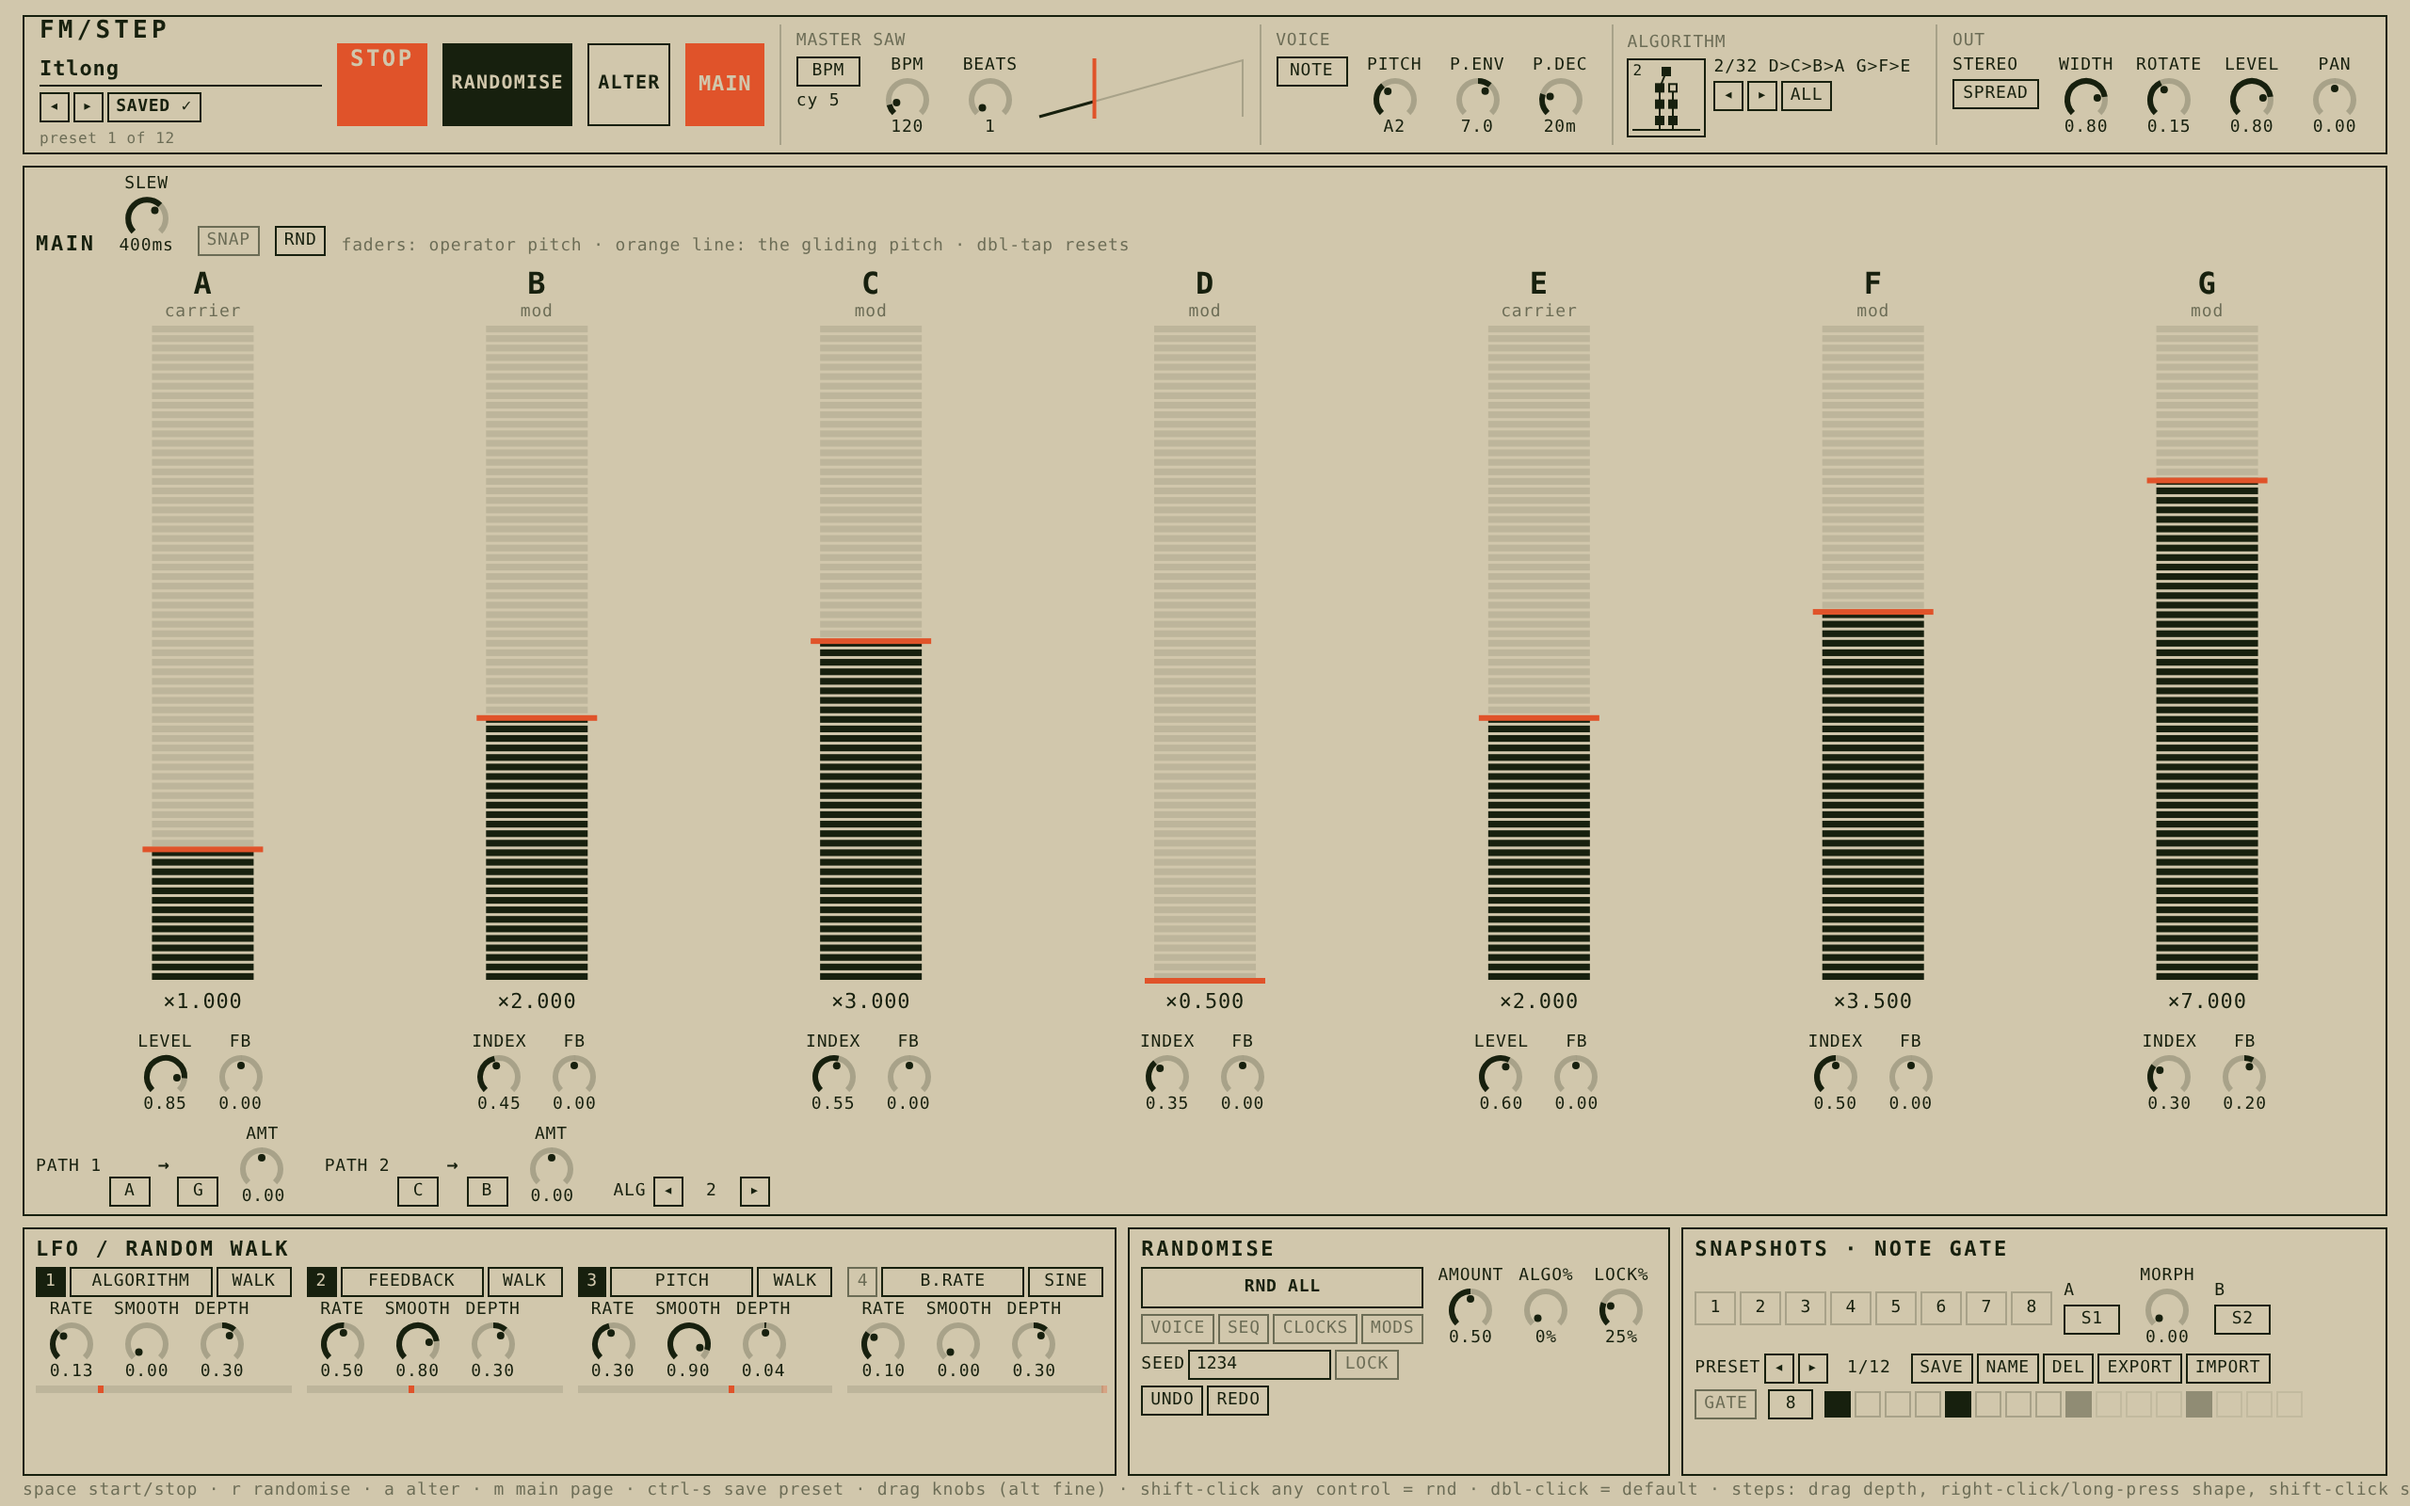
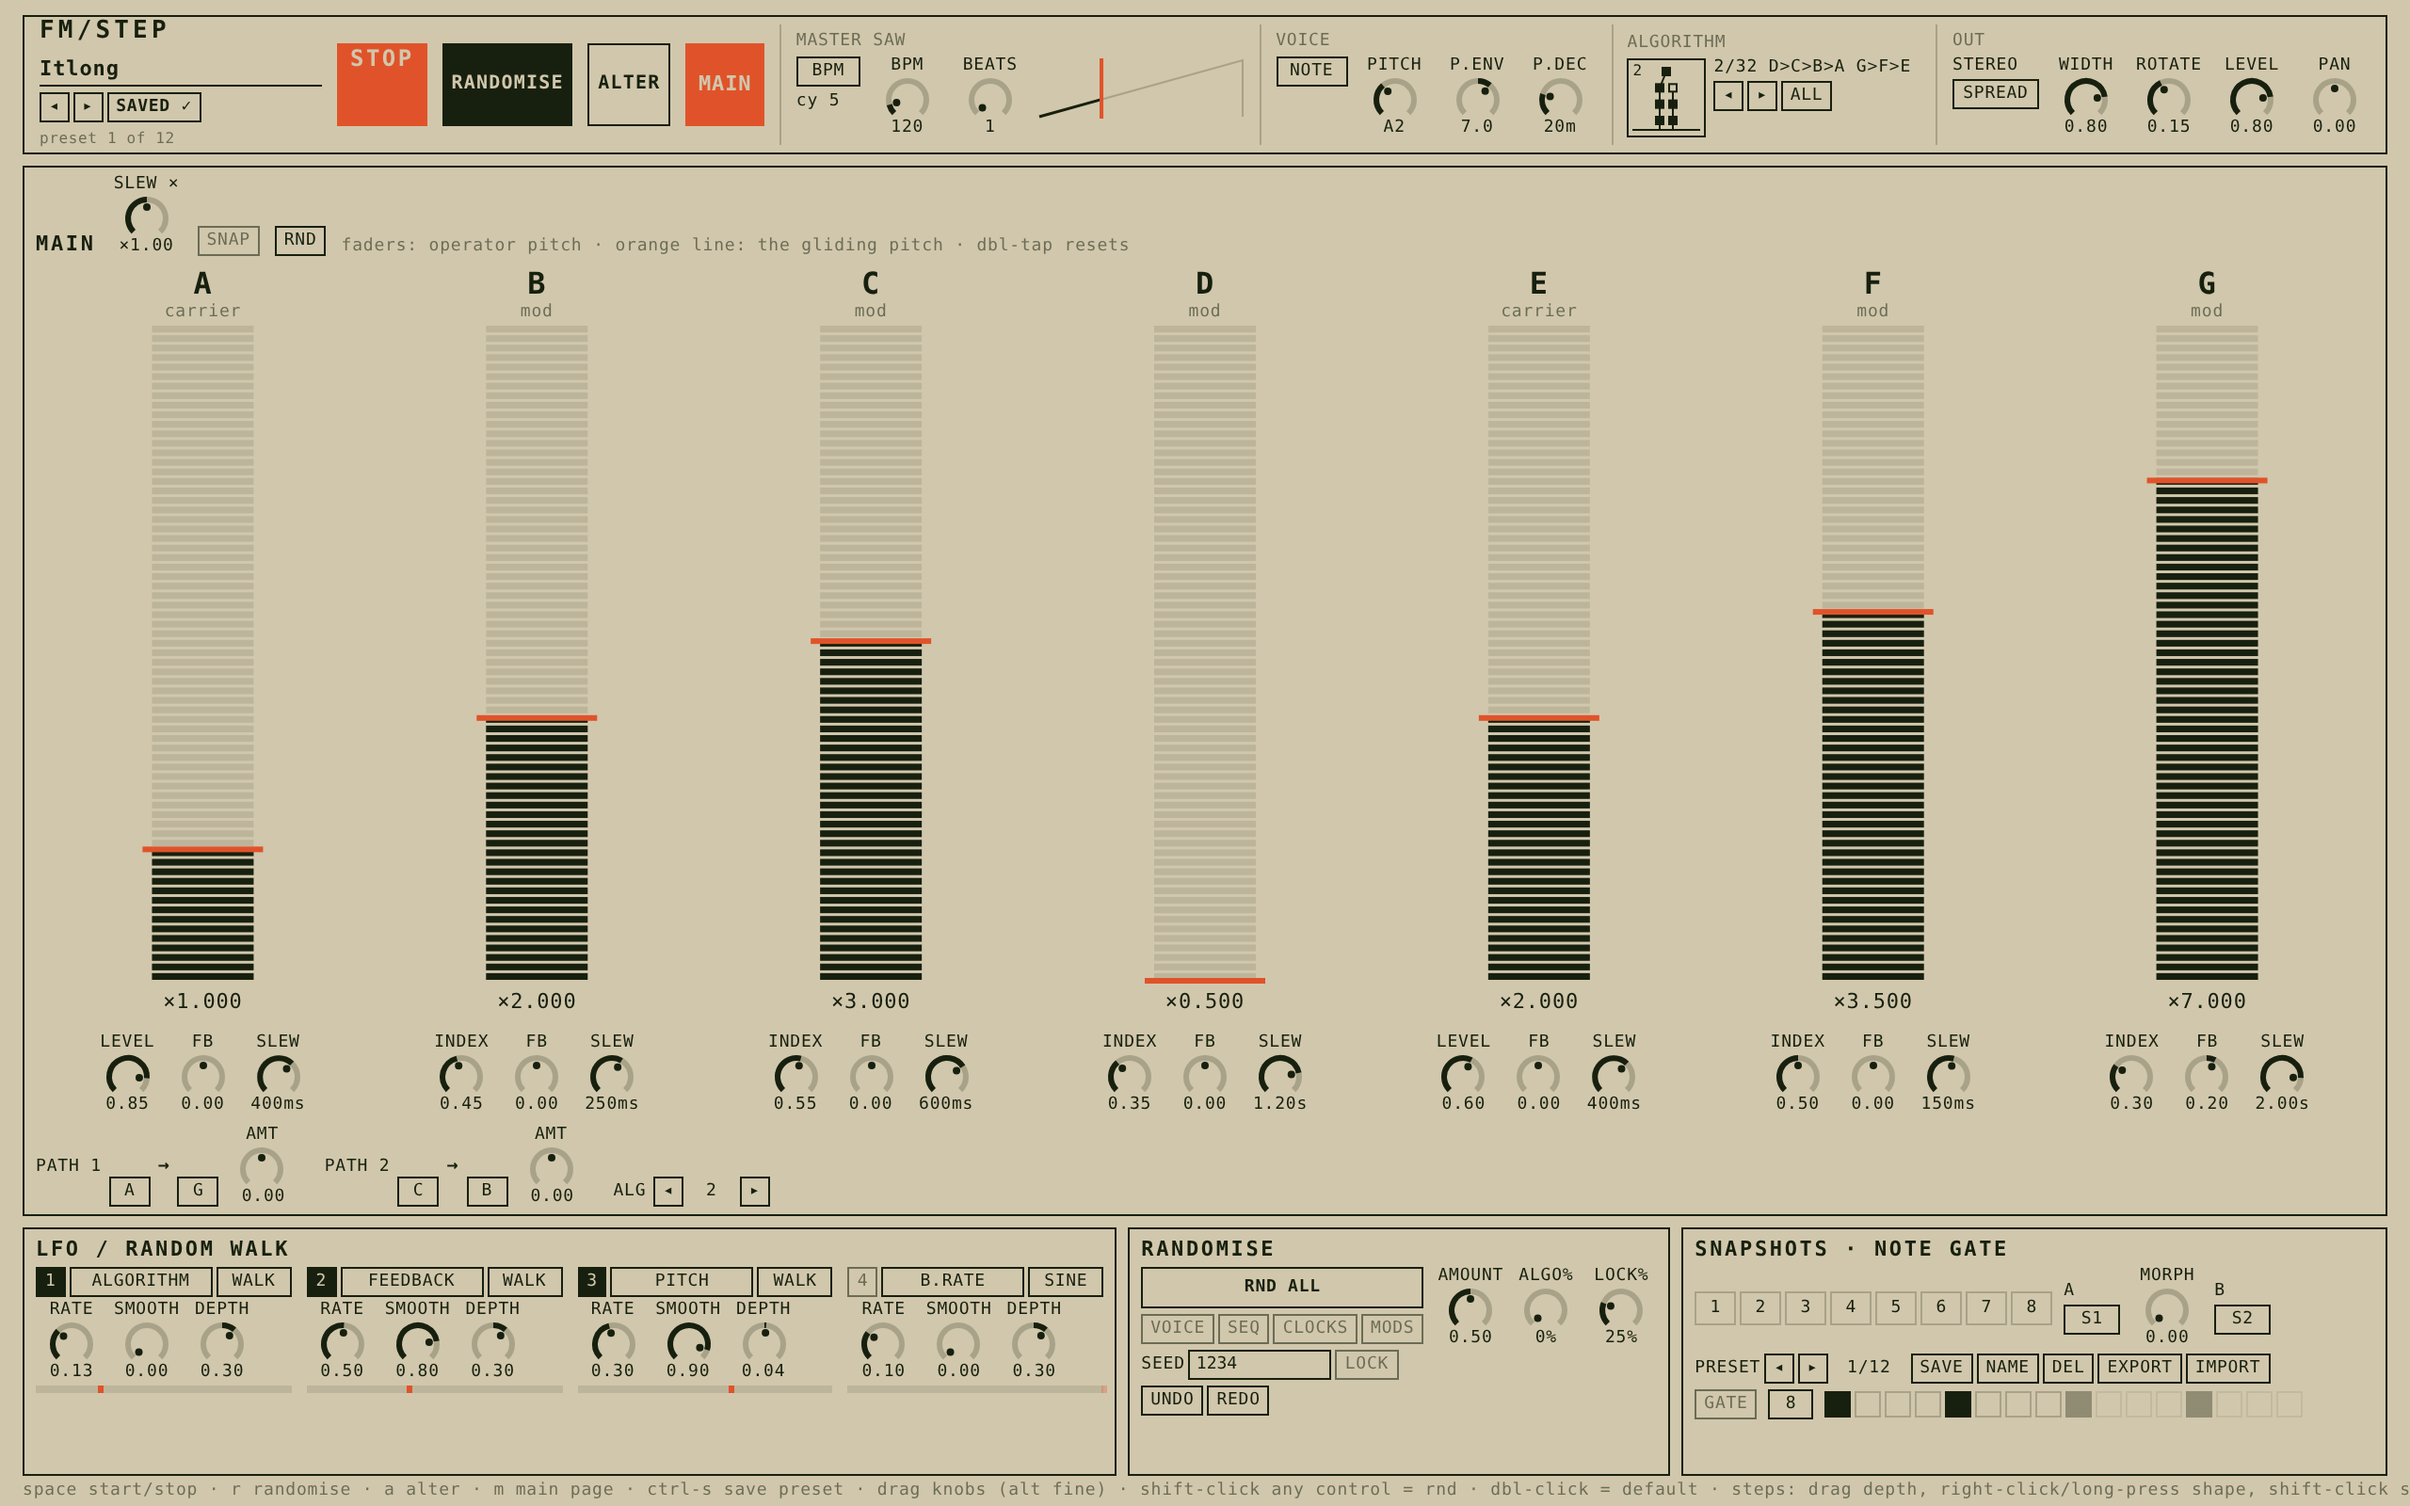
Per-operator pitch slew, with a slew × scale on the MAIN page
Claude-Session: https://claude.ai/code/session_018ENZqT8uPXUg66LybqJ133

diff --git a/ui/app.js b/ui/app.js
@@ -28,7 +28,9 @@ function upgrade(p) {
     for (let i = p.ops.length; i < NUM_OPS; i++) { const o = d.ops[i]; o.level = 0; p.ops.push(o); }
   }
   if (p.voice.stereo == null) { p.voice.stereo = 0; p.voice.width = 0.8; p.voice.rotate = 0.15; }
-  if (p.voice.pitchSlew == null) p.voice.pitchSlew = 0.4;
+  if (p.voice.slewScale == null) p.voice.slewScale = 1;
+  for (const op of p.ops || []) if (op.slew == null) op.slew = p.voice.pitchSlew ?? 0.4;
+  delete p.voice.pitchSlew;
   if (!Array.isArray(p.voice.paths)) p.voice.paths = [{ from: 0, to: 6, amt: 0 }, { from: 2, to: 1, amt: 0 }];
   for (const op of p.ops || []) if (op.fb == null) op.fb = 0;
   for (const o of p.ops) if (o.pan == null) o.pan = 0;
@@ -694,7 +696,8 @@ const pitchEl = document.getElementById('pitch');
 pitchEl.classList.add('panel');
 const ph = el('div', 'row', pitchEl); ph.style.alignItems = 'flex-end'; ph.style.gap = '8px';
 el('div', 'title', ph, 'main');
-knob(ctx, ph, { path: 'voice.pitchSlew', label: 'slew', fmt: (v) => (v < 1 ? (v * 1000).toFixed(0) + 'ms' : v.toFixed(2) + 's') });
+const slewFmt = (v) => (v < 1 ? (v * 1000).toFixed(0) + 'ms' : v.toFixed(2) + 's');
+knob(ctx, ph, { path: 'voice.slewScale', label: 'slew ×', fmt: (v) => '×' + v.toFixed(2) }).title = 'scales every operator\'s slew';
 ui.pitchSnap = false;
 const snapT = el('div', 'tog off', ph, 'snap');
 snapT.title = 'snap ratios to harmonic steps';
@@ -702,14 +705,14 @@ snapT.addEventListener('pointerdown', () => { ui.pitchSnap = !ui.pitchSnap; snap
 button(ph, 'rnd', () => {
   pushUndo();
   const r = uiRng();
-  patch.voice.pitchSlew = randomSlew(r);
+  for (const op of patch.ops) op.slew = randomSlew(r);
   for (const op of patch.ops) {
     if (r.next() >= patch.rnd.amount) continue;
     if (op.ratioMode === 'fixed') op.fixedHz = Math.round(Math.exp(r.range(Math.log(40), Math.log(4000))));
     else op.ratio = ui.pitchSnap ? RATIO_STEPS[r.int(RATIO_STEPS.length)] : Math.round(Math.exp(r.range(Math.log(0.5), Math.log(16))) * 1000) / 1000;
   }
   changed(true);
-}, 'randomise operator pitches and the slew time');
+}, 'randomise operator pitches and slew times');
 const pHint = el('div', 'val', ph, 'faders: operator pitch · orange line: the gliding pitch · dbl-tap resets');
 pHint.classList.add('desk-only');
 pHint.style.color = C.mid; pHint.style.whiteSpace = 'normal';
@@ -720,6 +723,7 @@ for (let i = 0; i < NUM_OPS; i++) {
   const c = el('div', 'mainop', mainOps);
   knob(ctx, c, { path: `ops.${i}.level`, label: () => (ALGORITHMS[patch.voice.algorithm].carriers.includes(i) ? 'level' : 'index') });
   knob(ctx, c, { path: i === NUM_OPS - 1 ? 'voice.feedback' : `ops.${i}.fb`, label: 'fb' });
+  knob(ctx, c, { path: `ops.${i}.slew`, label: 'slew', fmt: slewFmt });
 }
 // cross-feedback paths and the algorithm, all on one row
 const mainRow = el('div', 'mainrow', pitchEl);

diff --git a/dsp/params.js b/dsp/params.js
@@ -89,7 +89,7 @@ function makeOp(i) {
   for (let s = 0; s < MAX_STEPS; s++) steps.push(makeStep());
   return {
     // FM
-    ratioMode: 'ratio', ratio: ratios[i], fine: 0, fixedHz: 440, fb: 0, // fb: self-feedback (G uses voice.feedback)
+    ratioMode: 'ratio', ratio: ratios[i], fine: 0, fixedHz: 440, fb: 0, slew: [0.4, 0.25, 0.6, 1.2, 0.4, 0.15, 2][i], // slew: pitch glide time (s) // fb: self-feedback (G uses voice.feedback)
     level: levels[i], attack: 0.002,
     decay: [3, 0.8, 2.5, 2, 3, 0.6, 1.2][i],
     pan: [0, -0.8, 0.8, 0, 0, -0.5, 0.6][i], // modulators: which side of the carrier pair they modulate; carriers: placement
@@ -111,7 +111,7 @@ export function defaultPatch() {
       pitchMode: 'note', note: 45, hz: 110,
       pitchEnvSemis: 7, pitchEnvDecay: 0.02,
       level: 0.8, pan: 0, algorithm: 1, feedback: 0.2,
-      pitchSlew: 0.4, // seconds: operator pitch glide time
+      slewScale: 1, // multiplies every operator's pitch slew time
       stereo: 0, width: 0.8, rotate: 0.15, // carrier placement: mode, width 0..1, rotate speed (Hz)
       // cross-feedback paths: any operator's output bends any other's phase (G self-feedback is voice.feedback)
       paths: [{ from: 0, to: 6, amt: 0 }, { from: 2, to: 1, amt: 0 }],
@@ -165,6 +165,7 @@ for (let i = 0; i < NUM_OPS; i++) {
     { path: o + 'decay', section: 'voice', type: 'log', min: 0.01, max: 8, def: 0.5 },
     { path: o + 'fixedHz', section: 'voice', type: 'log', min: 20, max: 8000, def: 440 },
     { path: o + 'pan', section: 'voice', type: 'lin', min: -1, max: 1, def: 0 },
+    { path: o + 'slew', section: 'voice', type: 'log', min: 0.001, max: 8, def: 0.4, rndMax: 4 },
     ...(i < NUM_OPS - 1 ? [{ path: o + 'fb', section: 'voice', type: 'lin', min: -1, max: 1, def: 0, rndScale: 0.5 }] : []),
     { path: o + 'amp', section: 'voice', type: 'choice', n: 6, def: 0, rndWeights: [6, 2, 1, 1, 1, 1] },
     { path: o + 'seqAmount', section: 'seq', type: 'lin', min: 0, max: 1, def: 1 },
@@ -197,7 +198,7 @@ export const PARAM_SPECS = [
   { path: 'voice.stereo', section: 'voice', type: 'choice', n: 6, def: 0, rndWeights: [3, 3, 2, 2, 3, 0.3] },
   { path: 'voice.width', section: 'voice', type: 'lin', min: 0, max: 1, def: 0.8, rndMin: 0.3 },
   { path: 'voice.rotate', section: 'voice', type: 'log', min: 0.01, max: 8, def: 0.15, rndMax: 2 },
-  { path: 'voice.pitchSlew', section: 'voice', type: 'log', min: 0.001, max: 8, def: 0.4, rndMax: 2 },
+  { path: 'voice.slewScale', section: 'voice', type: 'log', min: 0.1, max: 10, def: 1, rndMin: 0.5, rndMax: 2 },
   { path: 'voice.feedback', section: 'voice', type: 'lin', min: -1, max: 1, def: 0 },
   ...[0, 1].flatMap((k) => [
     { path: `voice.paths.${k}.from`, section: 'voice', type: 'choice', n: NUM_OPS, def: 0 },

diff --git a/dsp/random.js b/dsp/random.js
@@ -206,7 +206,7 @@ export function rndAll(patch, locks, amount, rng) {
 }
 
 // ---------- morph ----------
-const LOG_KEYS = new Set(['ratio', 'attack', 'decay', 'fixedHz', 'hz', 'pitchEnvDecay', 'rate', 'mult']);
+const LOG_KEYS = new Set(['slew', 'slewScale', 'ratio', 'attack', 'decay', 'fixedHz', 'hz', 'pitchEnvDecay', 'rate', 'mult']);
 const LIN_KEYS = new Set(['fine', 'level', 'seqAmount', 'destRange', 'drift', 'jitter', 'scatter', 'jumpChance',
   'depth', 'prob', 'ratchetProb', 'skip', 'repeat', 'pitchEnvSemis', 'pan', 'feedback', 'bpm', 'smooth',
   'algoChance', 'amount', 'lockDensity', 'fb', 'amt', 'width']);
@@ -246,7 +246,8 @@ export function randomizeEverything(patch, rng) {
   rndAll(patch, {}, 1, rng);
   patch.rnd.style = rng.int(FILL_STYLES.length);
   patch.rnd.lockDensity = round4(rng.range(0, 0.4));
-  patch.voice.pitchSlew = randomSlew(rng);
+  for (const op of patch.ops) op.slew = randomSlew(rng);
+  patch.voice.slewScale = 1;
   // feedback: a few operators feed back on themselves, and each cross path is on about 60% of the time
   for (let i = 0; i < NUM_OPS - 1; i++) if (rng.next() < 0.65) patch.ops[i].fb = 0;
   for (const q of patch.voice.paths) if (rng.next() < 0.4) q.amt = 0; else if (q.from === q.to) q.to = (q.to + 1 + rng.int(NUM_OPS - 1)) % NUM_OPS;

diff --git a/dsp/engine.js b/dsp/engine.js
@@ -241,7 +241,7 @@ export class Engine {
       this.levelEff[i] = clamp(op.level + mLevel[i], 0, 1);
       this.ratioEff[i] = op.ratio * Math.pow(2, mRatio[i] * 2 + op.fine / 1200);
       // pitch slew: glide in the log (musical) domain
-      const slew = v.pitchSlew || 0;
+      const slew = (op.slew ?? v.pitchSlew ?? 0.4) * (v.slewScale ?? 1);
       const ks = slew <= 0 || !(this.ratioSm[i] > 0) ? 1 : 1 - Math.exp(-dt / slew);
       const tr = this.ratioEff[i], tf = op.fixedHz;
       this.ratioSm[i] = ks >= 1 ? tr : this.ratioSm[i] * Math.pow(tr / this.ratioSm[i], ks);

diff --git a/README.md b/README.md
@@ -22,7 +22,7 @@ with no DOM use, ready to port to C++/JUCE.
   clocks, jump sets, gate row and modulators, and gives the patch a new generated name. RND ALL respects the locks.
 - On phones (under 760px wide, e.g. Pixel 9a portrait) everything fits one screen with no scrolling: tabs A B C D
   (one operator each), VOICE, LFO and RND. The top bar (start, randomise, name, master saw) is always visible.
-- MAIN page (opens by default; MAIN button or M key on desktop, MAIN tab on the phone): long-throw pitch faders with slew, level and self-feedback for every operator, two cross-feedback paths (any operator into any other, carriers included, with amount) and the algorithm.
+- MAIN page (opens by default; MAIN button or M key on desktop, MAIN tab on the phone): long-throw pitch faders, and under each one that operator's level, self-feedback and its own pitch slew (slew × scales them all), two cross-feedback paths (any operator into any other, carriers included, with amount) and the algorithm.
 - Feedback: every operator has self-feedback (fb knob; G's is the old global feedback). LFO targets fb1, fb2 and A.fb..G.fb. RANDOMISE sets a few ops' feedback and the paths.
 - ALTER (or the A key) nudges every continuous setting a tiny amount (levels, decays, pans, LFOs, rates, step depths and chances, a few cents of fine tune) and leaves the algorithm, ratios and patterns alone. Undo works.
 - Seven operators, A to G, with 32 seven-operator algorithms (◂ ▸ or ALL to pick); feedback is on G.
